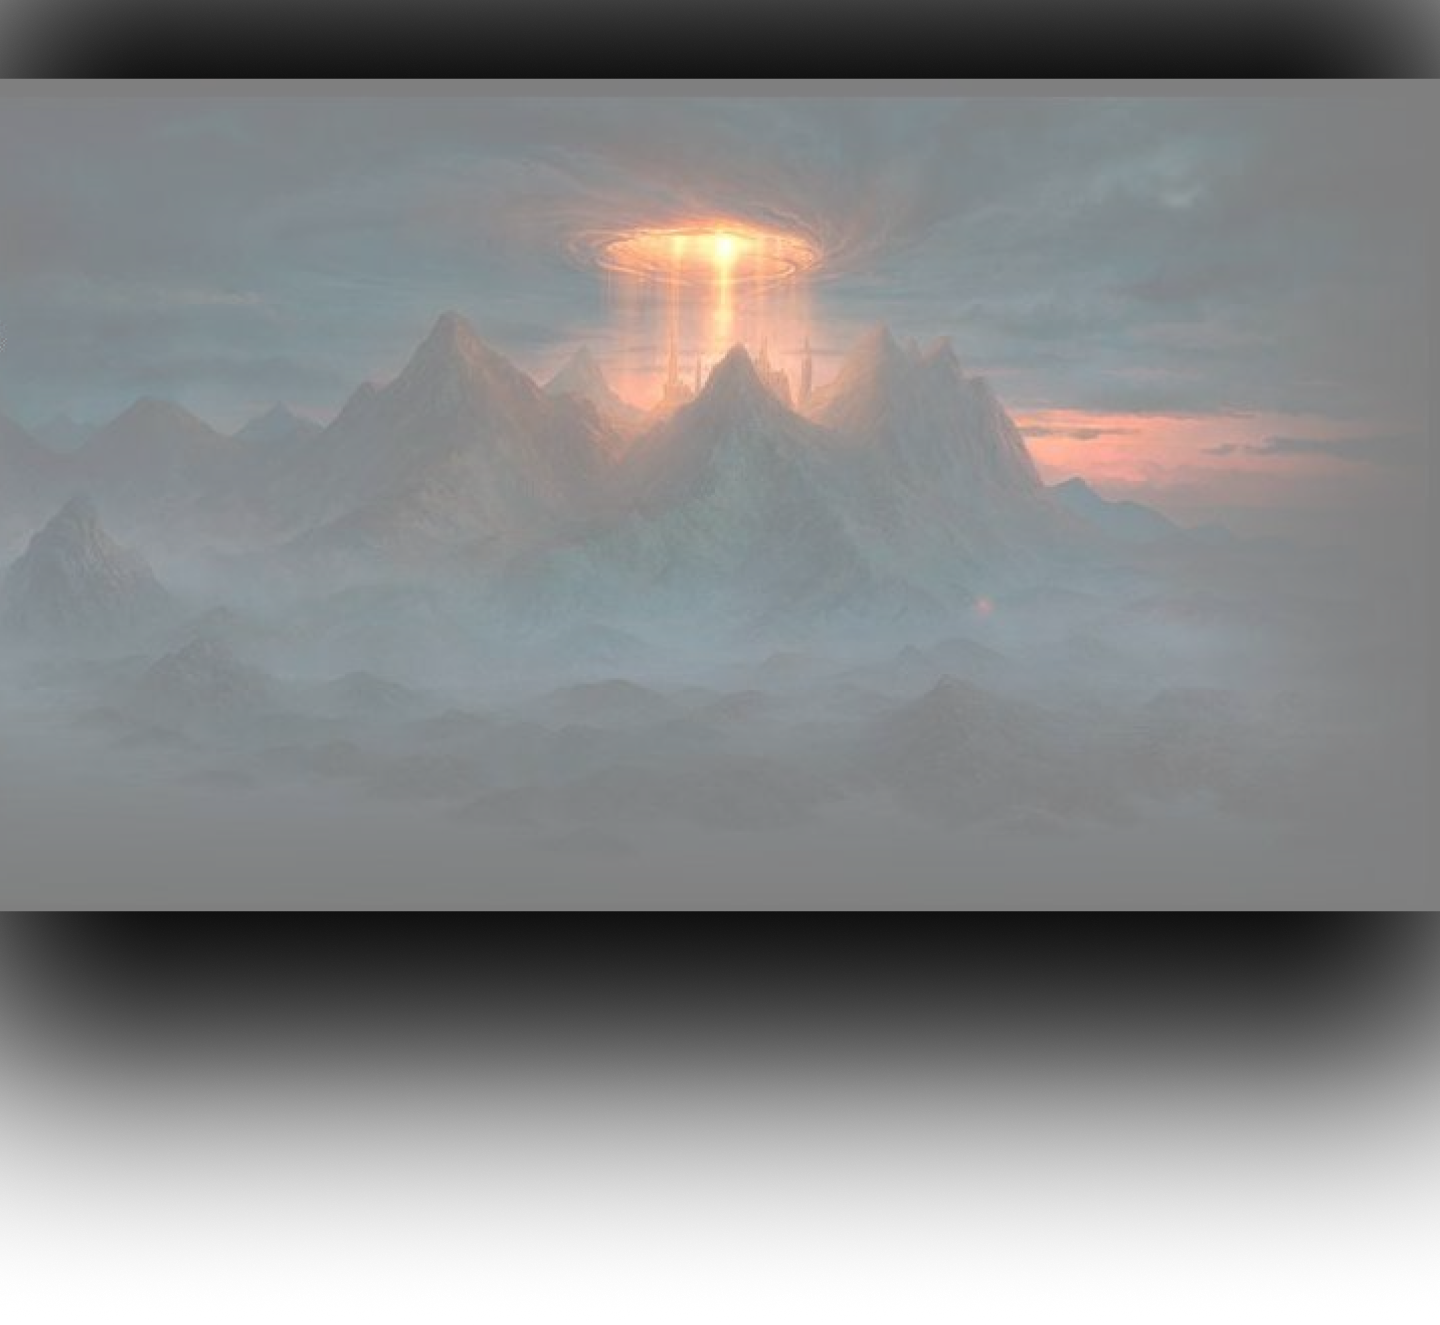
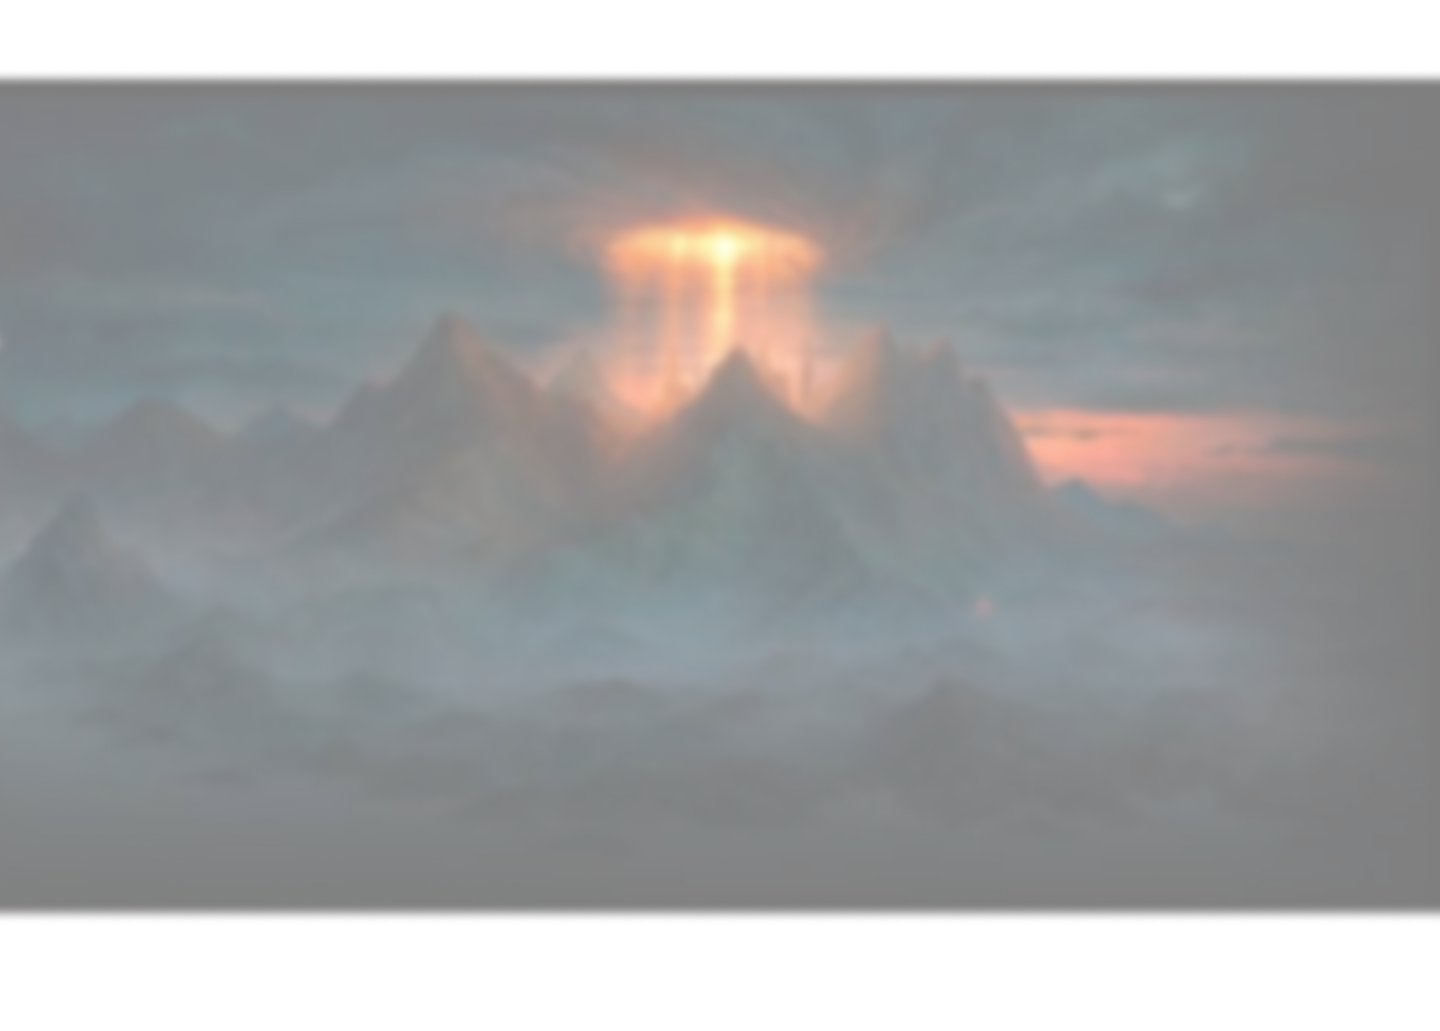
espere o esperado

diff --git a/src/main/resources/static/style/home.css b/src/main/resources/static/style/home.css
@@ -113,6 +113,8 @@ body {
   width: 82%;
   margin: 5em;
   margin-top: 6em;
+  border-radius: 20px;
+  border: 5px solid #ccc;
 }
 
 .rodape {
